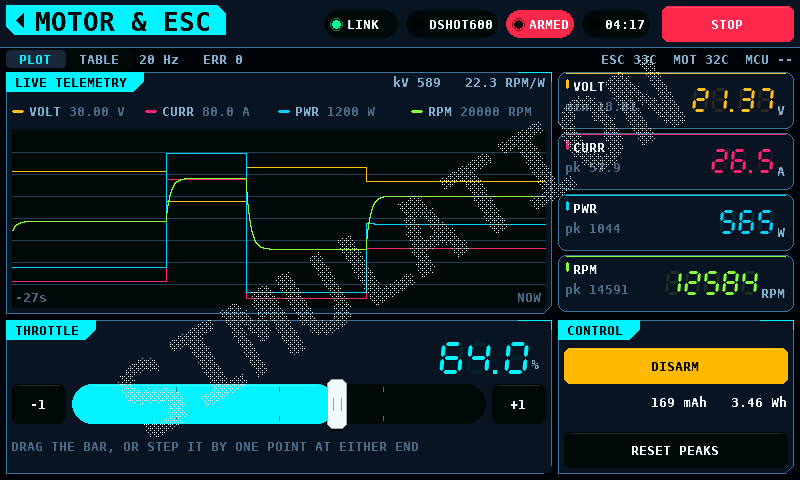
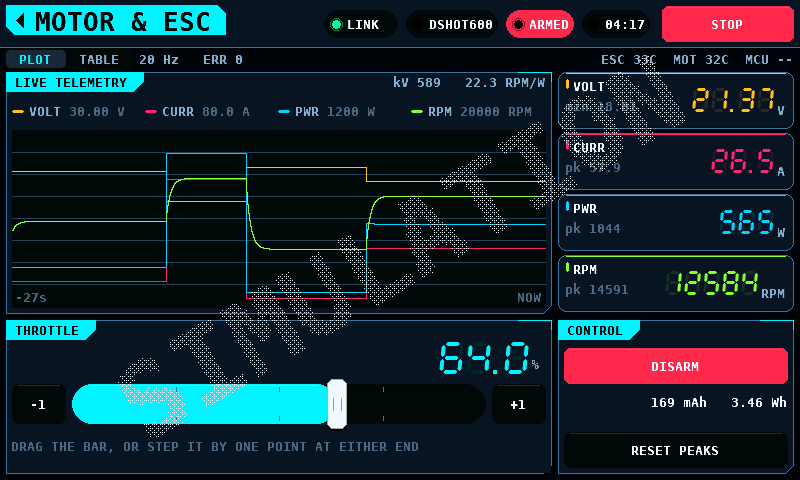
Move the throttle by the distance dragged, and read armed as red
A press anywhere on the track took the value under the finger, so a touch at
the right-hand end commanded full travel in one contact. The output bank's
slew ramps rather than steps, which bounds how fast a motor follows, but
nothing had to be confirmed and the command still went to 100.

ui_slider_event now records where the finger went down and the value it went
down on, and a move applies the distance travelled to that value. A press
commands nothing. A drag still works from anywhere on the track and still
owns the value after the finger leaves it. The presets are unchanged; the
motor screen does not use them.

The armed ARM button carries the danger red rather than the warning amber, so
an armed bench reads as armed across a room, and the fade a press runs
through now previews the colour the button is about to hold. The flash on
arming is unchanged.

test_widgets pins both halves of the new contract: a press on the track, the
far end included, commands nothing, and a quarter of the track's width of
travel is a quarter of the range wherever the finger went down. test_motor
pins the same through the screen.

Recorded in Safety.md and Safety-de.md beside the other deliberate
behaviours.

Changed region(s): [[0.6875, 0.7188, 1.0, 0.8125]]

diff --git a/test/host/test_widgets.c b/test/host/test_widgets.c
@@ -251,12 +251,41 @@ static bool ev(int x, int y, touch_event_type_t t, uint8_t id)
     return ui_slider_event(&sl, &e);
 }
 
-TEST_CASE(a_press_on_the_track_sets_the_value)
+/*
+ * A press commands nothing, and a drag moves by the distance dragged.
+ *
+ * Taking the value under the finger would command whatever it landed on: a
+ * touch at the right-hand end of a throttle asks for full travel in one
+ * contact.  The output bank's slew ramps rather than steps, which bounds how
+ * fast a motor follows, but the command still went to the end.
+ */
+TEST_CASE(a_press_on_the_track_commands_nothing)
 {
     fresh_slider();
-    CHECK(ev(300, 120, TOUCH_EVENT_DOWN, 1));
-    CHECK(sl.value > 49.0f && sl.value < 51.0f);
+    ui_slider_set(&sl, 0.0f);
+    CHECK(!ev(300, 120, TOUCH_EVENT_DOWN, 1));
+    CHECK_EQ(sl.value, 0.0f);
     (void)ev(300, 120, TOUCH_EVENT_UP, 1);
+    CHECK_EQ(sl.value, 0.0f);
+
+    /* The far end is the case that matters. */
+    fresh_slider();
+    ui_slider_set(&sl, 0.0f);
+    CHECK(!ev(499, 120, TOUCH_EVENT_DOWN, 1));
+    (void)ev(499, 120, TOUCH_EVENT_UP, 1);
+    CHECK_EQ(sl.value, 0.0f);
+}
+
+/* A quarter of the track's width of travel is a quarter of the range,
+ * wherever on the track the finger went down. */
+TEST_CASE(a_drag_moves_by_how_far_it_travelled)
+{
+    fresh_slider();
+    ui_slider_set(&sl, 40.0f);
+    (void)ev(480, 120, TOUCH_EVENT_DOWN, 1);
+    CHECK(ev(380, 120, TOUCH_EVENT_MOVE, 1));   /* 100 px left of 400 */
+    CHECK(sl.value > 14.0f && sl.value < 16.0f);
+    (void)ev(380, 120, TOUCH_EVENT_UP, 1);
 }
 
 /*
@@ -267,9 +296,11 @@ TEST_CASE(a_press_on_the_track_sets_the_value)
 TEST_CASE(a_drag_that_leaves_the_track_keeps_the_value)
 {
     fresh_slider();
+    ui_slider_set(&sl, 20.0f);
     (void)ev(150, 120, TOUCH_EVENT_DOWN, 1);
     CHECK(ev(400, 400, TOUCH_EVENT_MOVE, 1));   /* far below the track */
-    CHECK(sl.value > 74.0f && sl.value < 76.0f);
+    /* 250 px of a 400 px track is 62.5 points on top of the 20 it began on. */
+    CHECK(sl.value > 81.0f && sl.value < 84.0f);
     (void)ev(400, 400, TOUCH_EVENT_UP, 1);
     CHECK(!sl.dragging);
 }
@@ -441,7 +472,8 @@ int main(void)
     RUN(a_legend_tap_cycles_focus_then_hidden);
     RUN(map_y_is_the_right_way_up_and_clamps);
     RUN(the_plot_and_hero_render_without_running_off_the_canvas);
-    RUN(a_press_on_the_track_sets_the_value);
+    RUN(a_press_on_the_track_commands_nothing);
+    RUN(a_drag_moves_by_how_far_it_travelled);
     RUN(a_drag_that_leaves_the_track_keeps_the_value);
     RUN(a_press_from_outside_never_becomes_a_drag);
     RUN(a_preset_sets_its_value_and_a_slip_does_not);

diff --git a/test/host/test_motor.c b/test/host/test_motor.c
@@ -72,6 +72,9 @@ static void tap(int x, int y) { ev(x, y, TOUCH_EVENT_DOWN, 1);
 /* One percentage point at each end of the track. */
 #define DOWN_X   33
 #define UP_X     519
+/* The track itself: x 72..486, so half of it is half the travel. */
+#define TRACK_X  72
+#define TRACK_W  414
 
 static motor_cmd_t last_cmd(void)
 {
@@ -144,17 +147,38 @@ TEST_CASE(the_disarm_latch_clears_when_it_is_read)
     CHECK_EQ(last_cmd().kind, MOTOR_CMD_ARM);
 }
 
-TEST_CASE(the_throttle_track_posts_what_it_was_dragged_to)
+/*
+ * The throttle moves by how far a finger travels, not to where it lands.
+ *
+ * A press used to command the value under it, so touching the right-hand end
+ * of the track asked for full travel in one contact.  The output bank's slew
+ * ramps rather than steps, which bounds how fast the motor follows, but the
+ * command still went to 100 and nothing had to be confirmed.
+ */
+TEST_CASE(the_throttle_track_moves_by_how_far_it_is_dragged)
 {
     fresh();
-    ev(276, TRACK_Y, TOUCH_EVENT_DOWN, 1);
+
+    /* A press commands nothing, wherever on the track it lands. */
+    ev(TRACK_X + TRACK_W - 4, TRACK_Y, TOUCH_EVENT_DOWN, 1);
+    CHECK_EQ(last_cmd().kind, MOTOR_CMD_NONE);
+    CHECK_NEAR(motor_screen_throttle(), 0.0f, 0.01f);
+    ev(TRACK_X + TRACK_W - 4, TRACK_Y, TOUCH_EVENT_UP, 1);
+    CHECK_NEAR(motor_screen_throttle(), 0.0f, 0.01f);
+
+    /* Half the track's width of drag is half the travel, wherever it began. */
+    ev(TRACK_X + 10, TRACK_Y, TOUCH_EVENT_DOWN, 1);
+    ev(TRACK_X + 10 + TRACK_W / 2, TRACK_Y, TOUCH_EVENT_MOVE, 1);
     const motor_cmd_t c = last_cmd();
     CHECK_EQ(c.kind, MOTOR_CMD_THROTTLE);
     CHECK(c.value > 45.0f && c.value < 55.0f);
     CHECK_NEAR(motor_screen_throttle(), c.value, 0.01f);
-    ev(400, TRACK_Y, TOUCH_EVENT_UP, 1);
-}
 
+    /* And dragging back the same distance returns it. */
+    ev(TRACK_X + 10, TRACK_Y, TOUCH_EVENT_MOVE, 1);
+    ev(TRACK_X + 10, TRACK_Y, TOUCH_EVENT_UP, 1);
+    CHECK_NEAR(motor_screen_throttle(), 0.0f, 0.01f);
+}
 TEST_CASE(reset_peaks_posts_its_own_command)
 {
     fresh();
@@ -478,7 +502,7 @@ int main(void)
     RUN(a_second_contact_cannot_steal_the_arm_release);
     RUN(a_pending_disarm_cannot_be_overwritten_by_an_arm);
     RUN(the_disarm_latch_clears_when_it_is_read);
-    RUN(the_throttle_track_posts_what_it_was_dragged_to);
+    RUN(the_throttle_track_moves_by_how_far_it_is_dragged);
     RUN(reset_peaks_posts_its_own_command);
     RUN(leaving_the_screen_disarms);
     RUN(the_tabs_switch_panes_and_both_render);

diff --git a/shared/ui/ui_slider.c b/shared/ui/ui_slider.c
@@ -68,15 +68,24 @@ void ui_slider_set(ui_slider_t *s, float value)
     }
 }
 
-static bool from_x(ui_slider_t *s, int x)
+/*
+ * The value the drag started from, moved by as far as the finger has moved.
+ *
+ * Not the value under the finger: this control commands a throttle, and a
+ * press that lands where the finger happens to touch would command whatever
+ * is under it.  Touching the right-hand end of the track would ask for full
+ * travel, which the output bank's slew would then ramp to.  A press moves
+ * nothing; only a drag does, and it moves by the distance dragged.
+ */
+static bool by_delta(ui_slider_t *s, int x)
 {
     if (s->track.w <= 1) {
         return false;
     }
-    const float frac = clampf((float)(x - s->track.x) / (float)(s->track.w - 1),
-                              0.0f, 1.0f);
+    const float per_px = (s->max - s->min) / (float)(s->track.w - 1);
     const float was = s->value;
-    s->value = s->min + frac * (s->max - s->min);
+    s->value = clampf(s->drag_value + (float)(x - s->drag_x) * per_px,
+                      s->min, s->max);
     return s->value != was;
 }
 
@@ -90,9 +99,11 @@ bool ui_slider_event(ui_slider_t *s, const touch_event_t *evt)
 
     if (evt->type == TOUCH_EVENT_DOWN) {
         if (gfx_rect_contains(s->track, x, y)) {
-            s->dragging = true;
-            s->drag_id  = evt->point.id;
-            return from_x(s, x);
+            s->dragging   = true;
+            s->drag_id    = evt->point.id;
+            s->drag_x     = (int16_t)x;
+            s->drag_value = s->value;
+            return false;   /* a press on its own commands nothing */
         }
         for (int i = 0; i < s->preset_count; ++i) {
             if (gfx_rect_contains(s->presets[i], x, y)) {
@@ -110,11 +121,11 @@ bool ui_slider_event(ui_slider_t *s, const touch_event_t *evt)
         if (evt->type == TOUCH_EVENT_MOVE) {
             /* Deliberately not requiring the finger to stay on the track: a
              * press that began there owns the value until it lets go. */
-            return from_x(s, x);
+            return by_delta(s, x);
         }
         if (evt->type == TOUCH_EVENT_UP) {
             s->dragging = false;
-            return from_x(s, x);
+            return by_delta(s, x);
         }
         return false;
     }

diff --git a/shared/ui/motor_screen.c b/shared/ui/motor_screen.c
@@ -389,7 +389,9 @@ static void tick(float dt_s)
  */
 static gfx_color_t arm_fill(void)
 {
-    gfx_color_t fill = s.armed ? ui_theme_color(UI_C_WARN)
+    /* Armed is the danger red the press fades towards, so the fade previews
+     * the colour the button is about to hold. */
+    gfx_color_t fill = s.armed ? ui_theme_color(UI_C_DANGER)
                                : ui_theme_color(UI_C_OK);
     if (!s.armed && s.arm_held_s > 0.0f) {
         const uint8_t t =

diff --git a/shared/ui/include/ui_slider.h b/shared/ui/include/ui_slider.h
@@ -52,6 +52,8 @@ typedef struct {
 
     bool    dragging;
     uint8_t drag_id;
+    int16_t drag_x;       /**< where the finger went down                 */
+    float   drag_value;   /**< and the value it went down on              */
     int     pressed_preset;   /**< index, or -1                           */
     uint8_t preset_id;
 } ui_slider_t;

diff --git a/docs/Safety-de.md b/docs/Safety-de.md
@@ -68,6 +68,9 @@ Panel als Leitung ohne Flanken gelesen wird.
 
 - STOP rastet ein. Der Prüfstand bleibt entschärft, bis er erneut scharf
   geschaltet wird.
+- Das Gas bewegt sich um die Strecke, die ein Finger zurücklegt, nicht auf die
+  Stelle, an der er landet. Ein Druck auf den Track kommandiert nichts, sodass
+  eine Berührung am Ende nicht mit einem Kontakt den vollen Weg anfordern kann.
 - Das Verlassen eines Prüfstandsbildschirms entschärft.
 - Antwortet der Touch-Controller 500 ms lang nicht, entschärft der Prüfstand
   und verweigert das Schärfen. Das Panel ist der einzige Ort mit einem

diff --git a/docs/Safety.md b/docs/Safety.md
@@ -61,6 +61,9 @@ unpowered or unplugged panel reads as a line that is not edging.
 ## Deliberate behaviours
 
 - STOP latches. The bench stays disarmed until it is armed again.
+- The throttle moves by how far a finger travels, not to where it lands. A
+  press on the track commands nothing, so a touch at the far end cannot ask
+  for full travel in one contact.
 - Leaving a bench screen disarms.
 - If the touch controller stops answering for 500 ms, the bench disarms and
   refuses to arm. The panel is the only place a STOP button exists.
